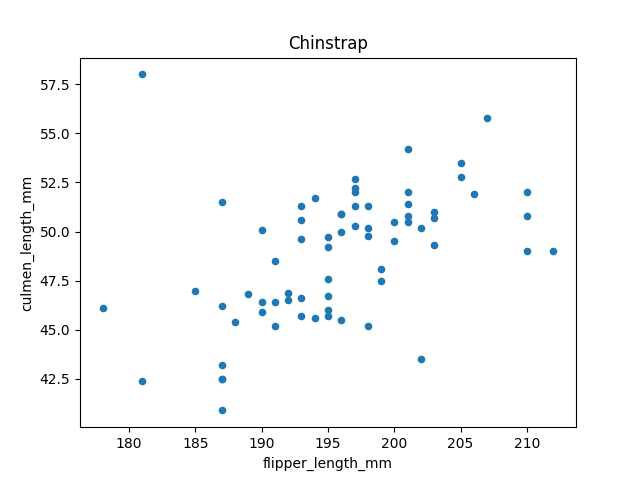
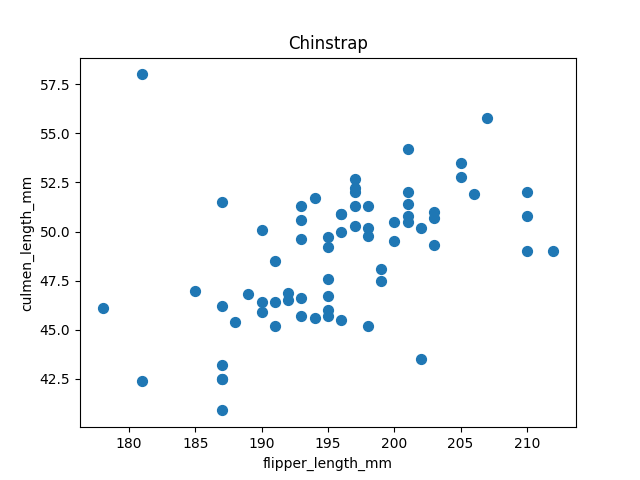
MASSIVE MARKERS

diff --git a/penguins.py b/penguins.py
@@ -16,5 +16,5 @@ penguins_size['colour'] = colour
 same_graph = penguins_size.plot.scatter(x = 'flipper_length_mm', y = 'culmen_length_mm', c = 'colour').get_figure()
 same_graph.savefig('same_graph.png')
 for key, frame in penguins_size.groupby('species'):
-  different_graphs = frame.plot.scatter(x = 'flipper_length_mm', y= 'culmen_length_mm', title = key, s = 20).get_figure()
+  different_graphs = frame.plot.scatter(x = 'flipper_length_mm', y= 'culmen_length_mm', title = key, s = 50).get_figure()
   different_graphs.savefig('graph'+str(key)+'.png')
